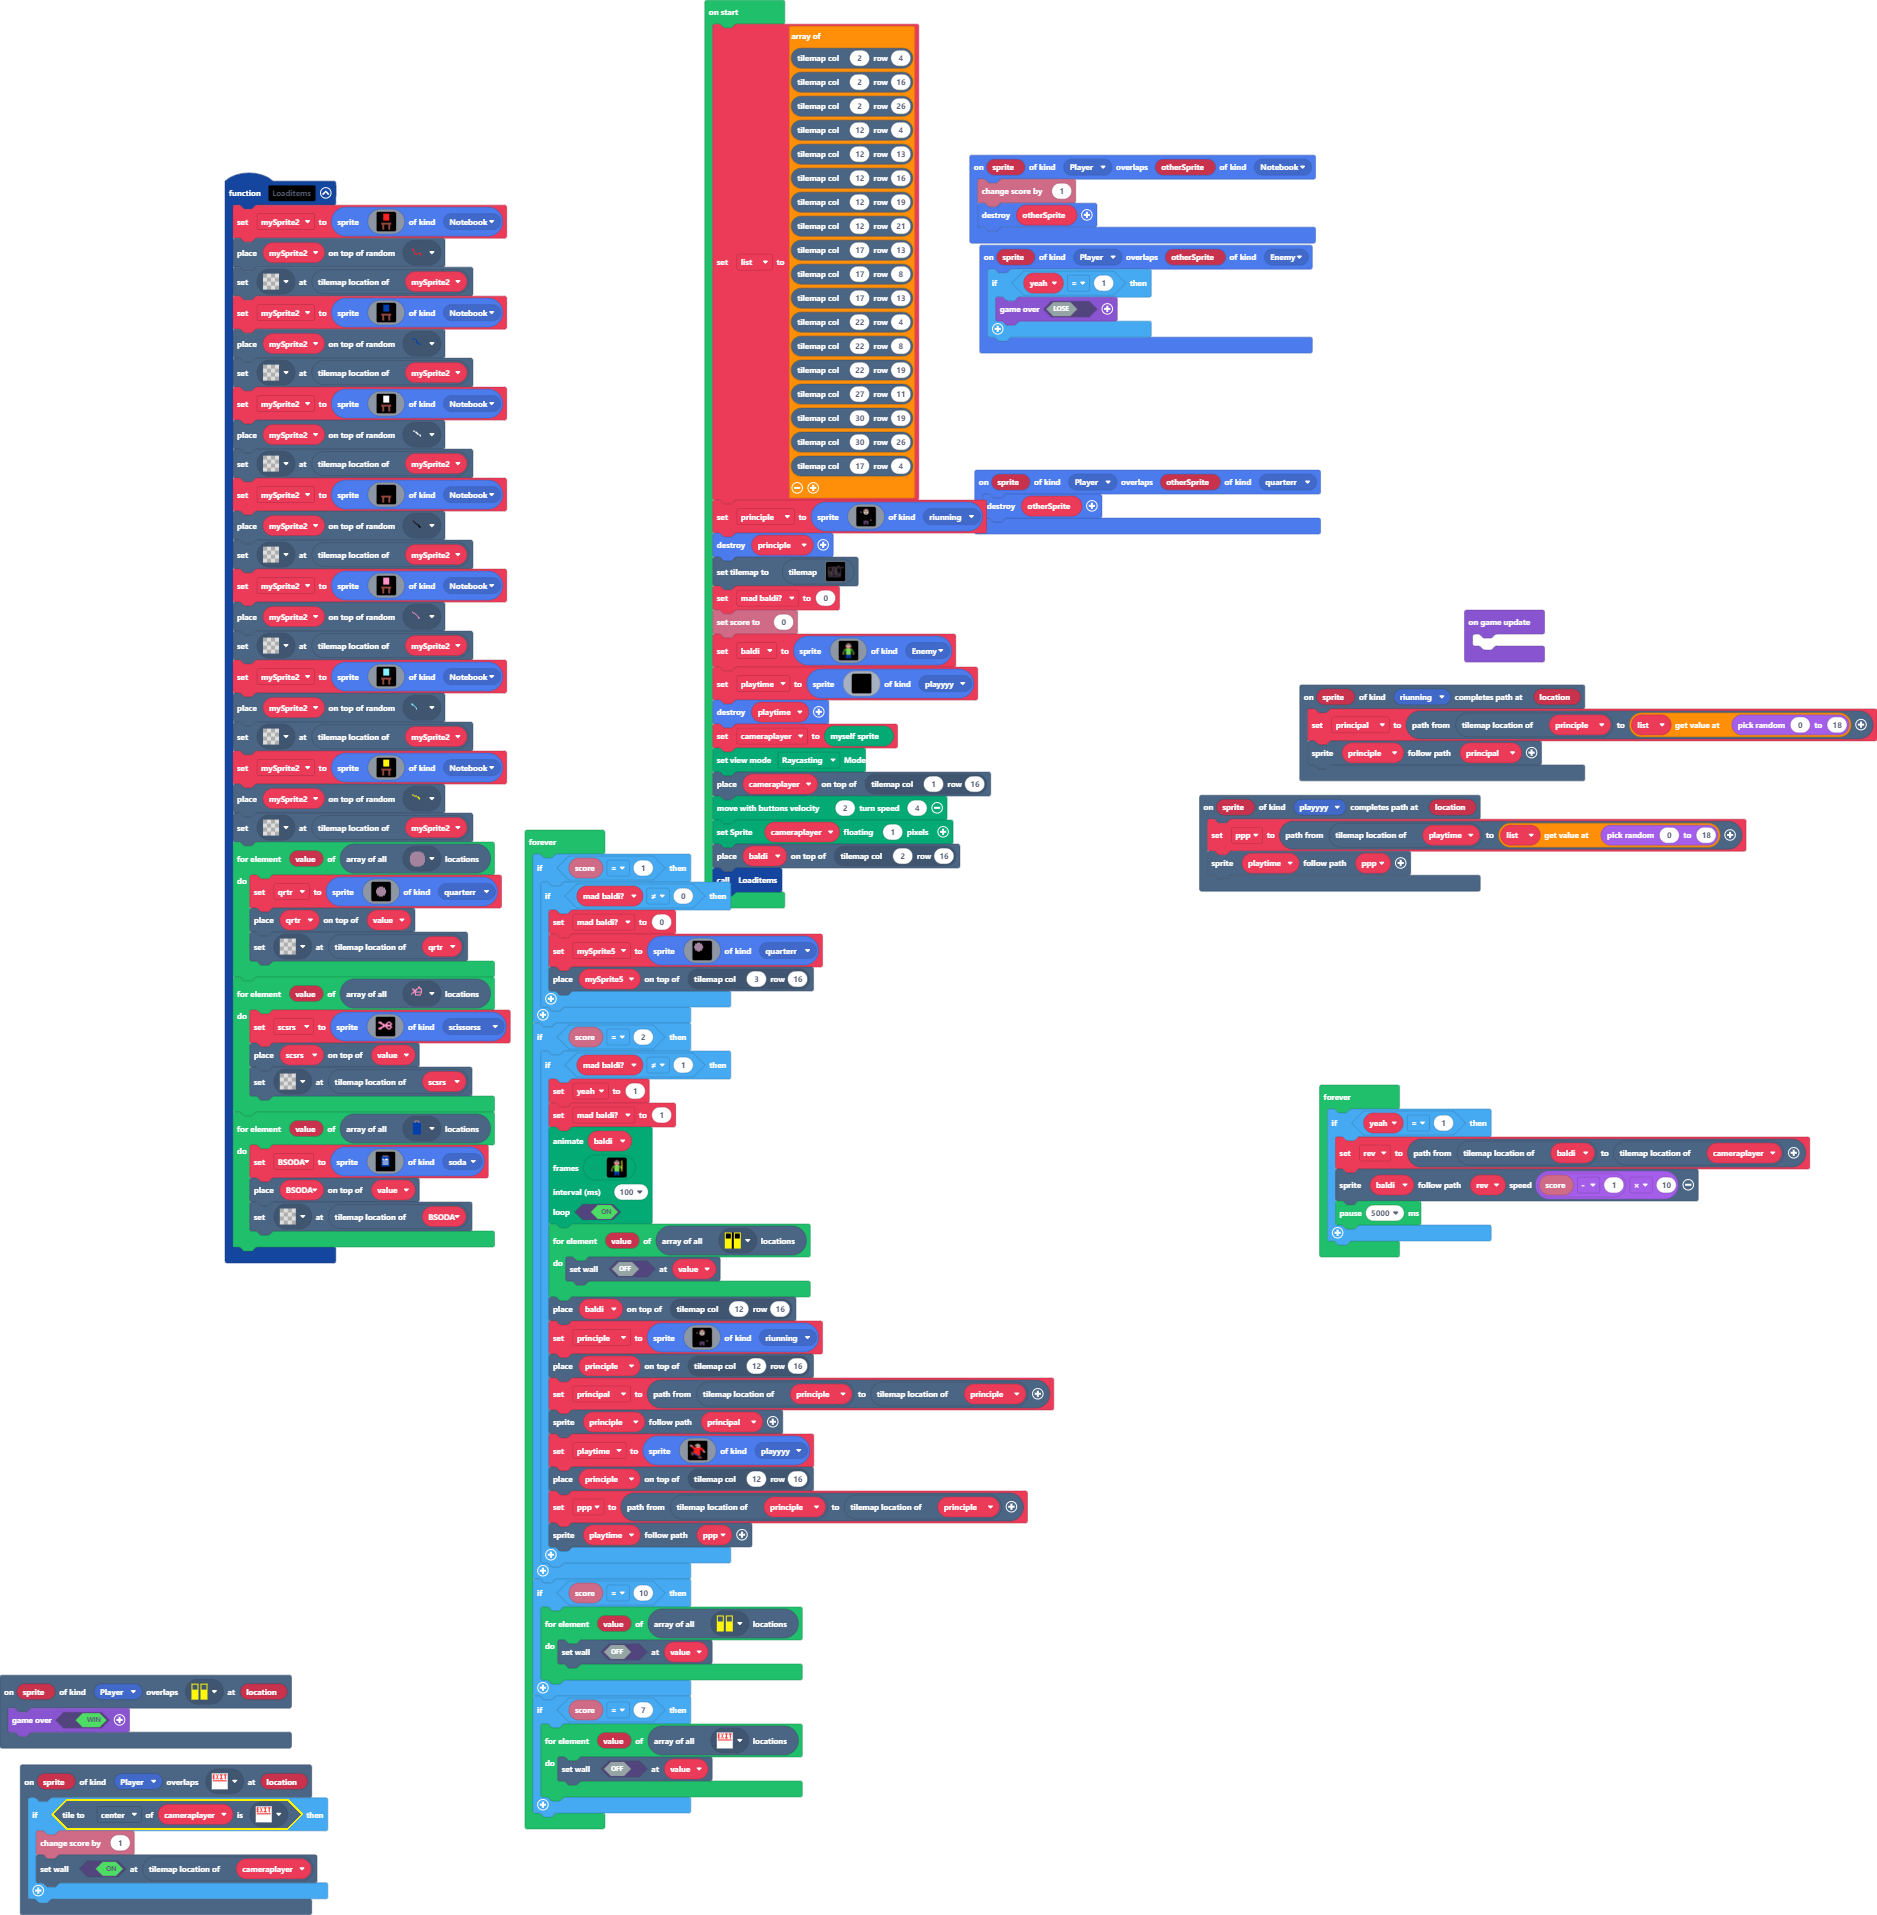
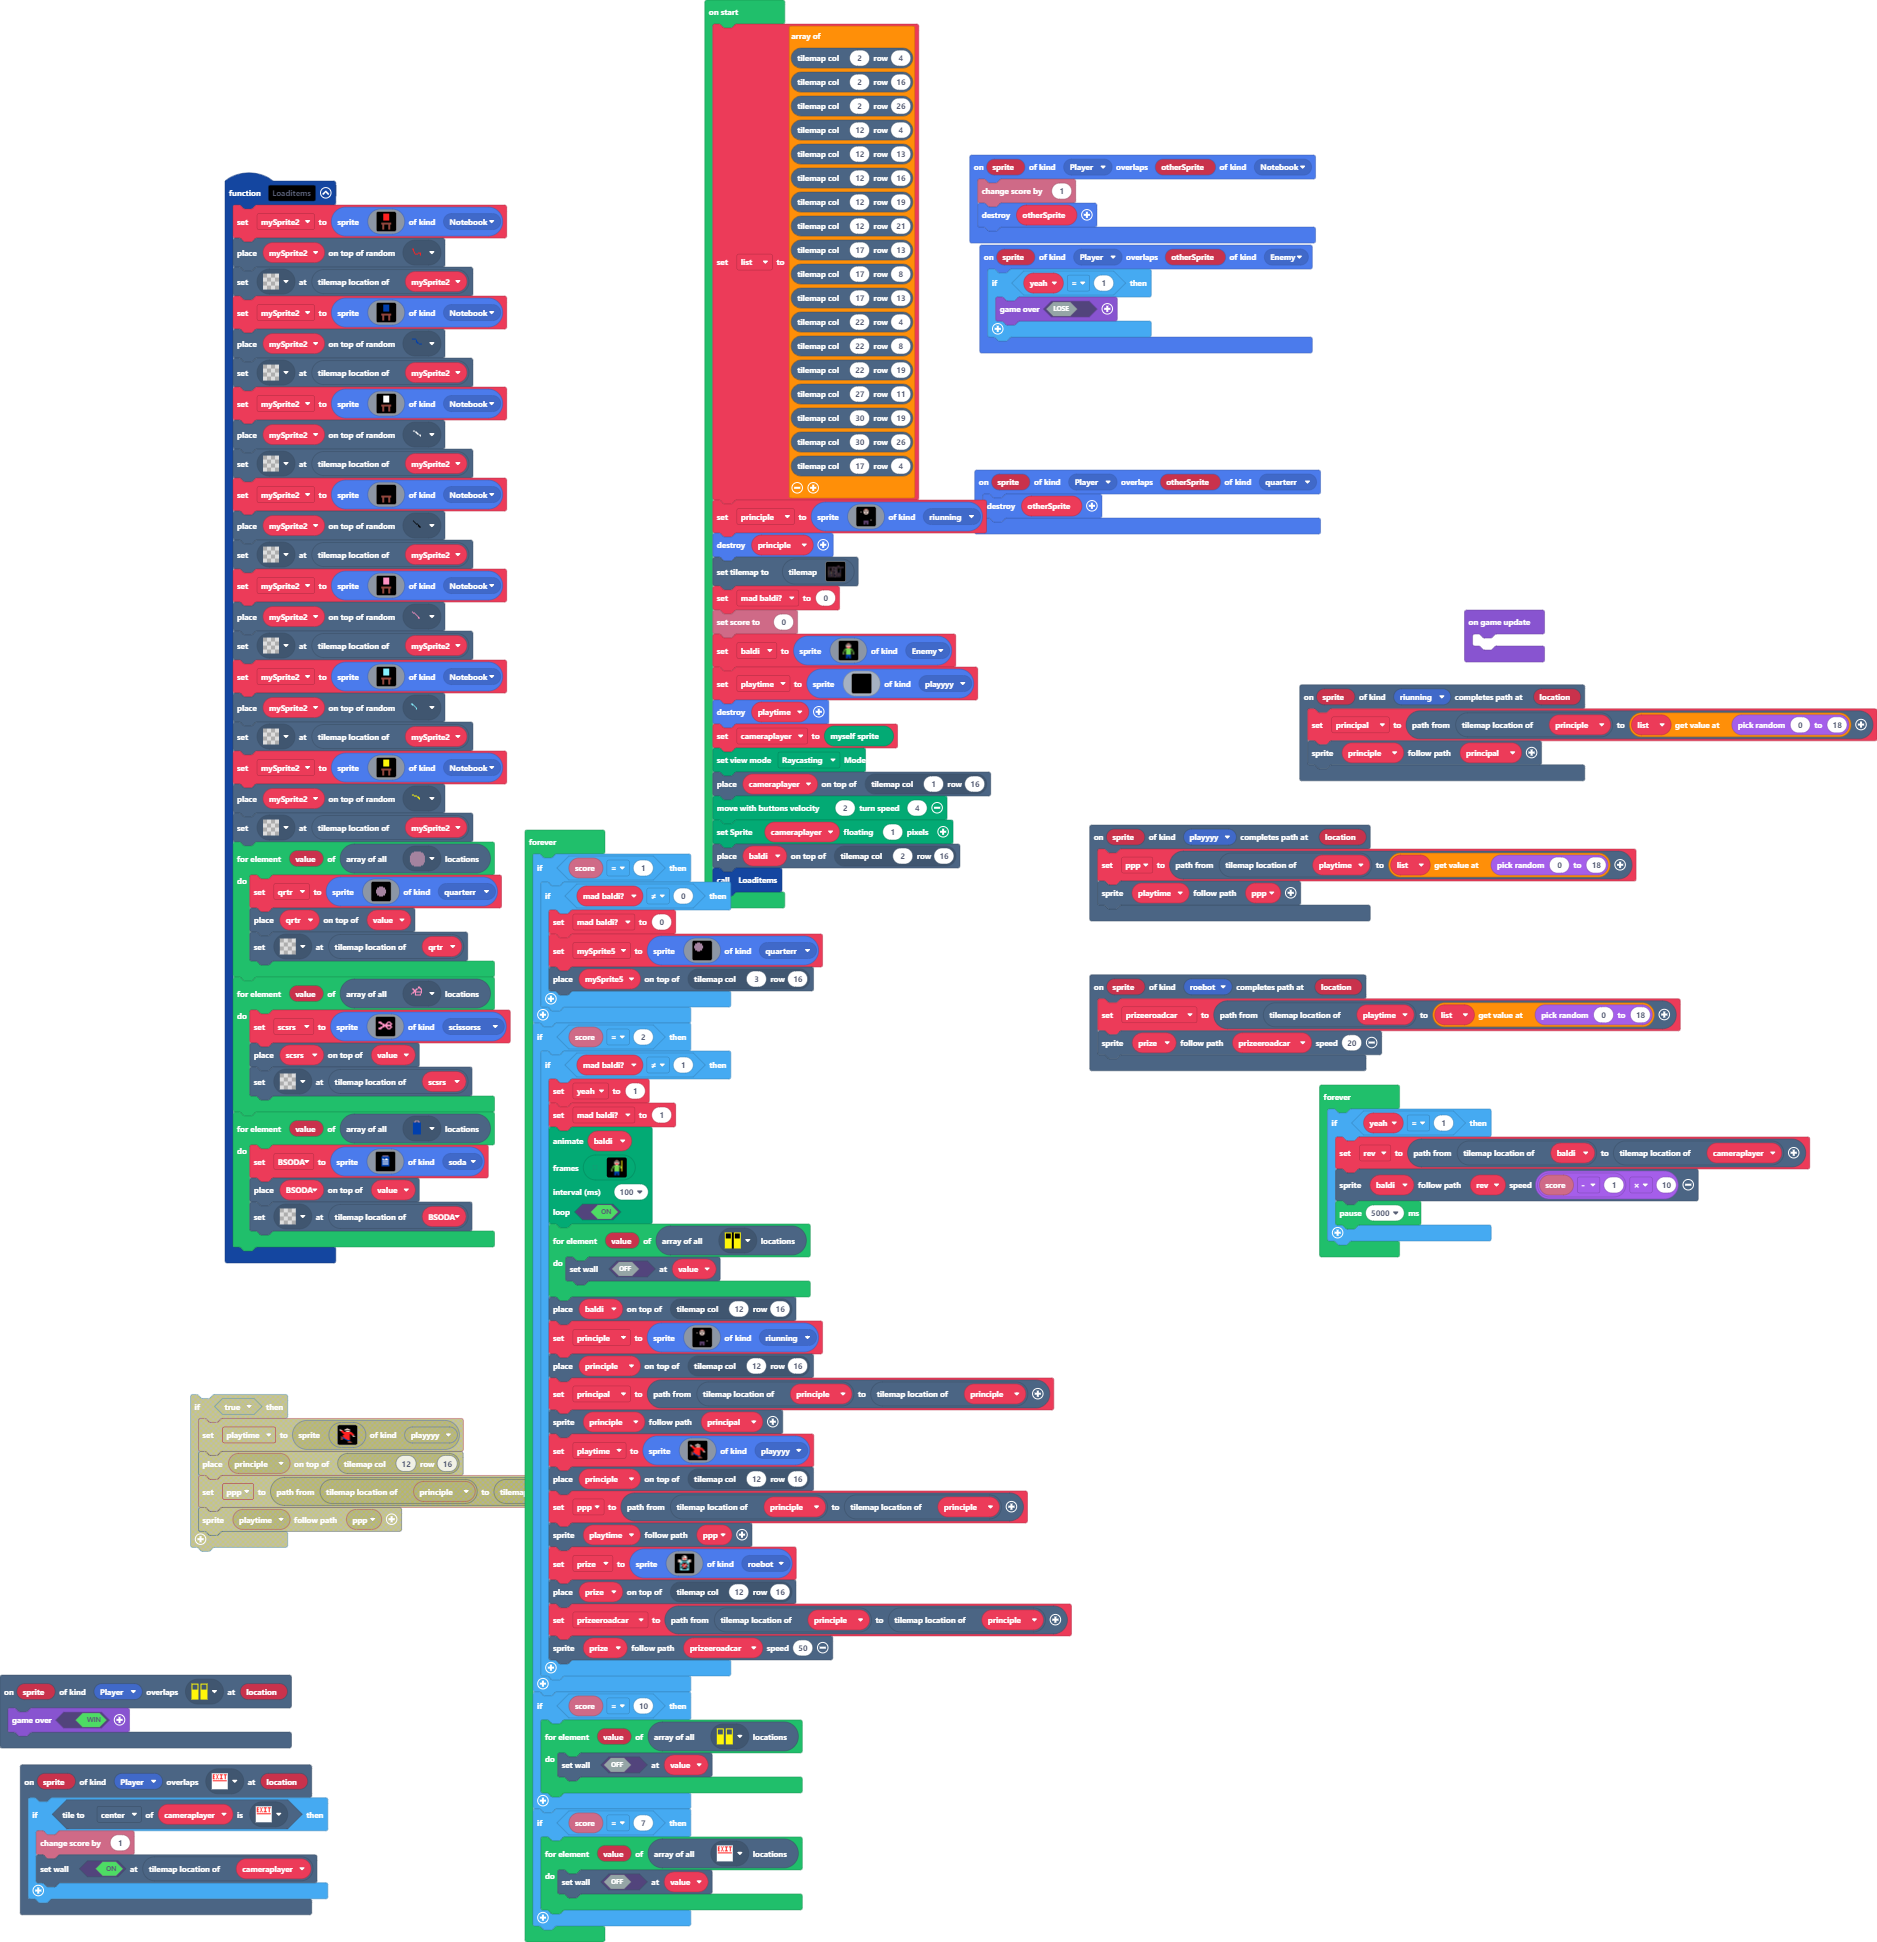
Update main.blocks, main.ts

diff --git a/main.ts b/main.ts
@@ -5,6 +5,7 @@ namespace SpriteKind {
     export const soda = SpriteKind.create()
     export const riunning = SpriteKind.create()
     export const playyyy = SpriteKind.create()
+    export const roebot = SpriteKind.create()
 }
 sprites.onOverlap(SpriteKind.Player, SpriteKind.Notebook, function (sprite, otherSprite) {
     info.changeScoreBy(1)
@@ -238,6 +239,10 @@ function Loaditems () {
         tiles.setTileAt(BSODA.tilemapLocation(), assets.tile`transparency16`)
     }
 }
+scene.onPathCompletion(SpriteKind.roebot, function (sprite, location) {
+    prizeeroadcar = scene.aStar(playtime.tilemapLocation(), list[randint(0, 18)])
+    scene.followPath(prize, prizeeroadcar, 20)
+})
 sprites.onOverlap(SpriteKind.Player, SpriteKind.Enemy, function (sprite, otherSprite) {
     if (yeah == 1) {
         game.over(false)
@@ -246,6 +251,8 @@ sprites.onOverlap(SpriteKind.Player, SpriteKind.Enemy, function (sprite, otherSp
 let rev: tiles.Location[] = []
 let mySprite5: Sprite = null
 let yeah = 0
+let prize: Sprite = null
+let prizeeroadcar: tiles.Location[] = []
 let BSODA: Sprite = null
 let scsrs: Sprite = null
 let qrtr: Sprite = null
@@ -630,6 +637,27 @@ forever(function () {
             tiles.placeOnTile(principle, tiles.getTileLocation(12, 16))
             ppp = scene.aStar(principle.tilemapLocation(), principle.tilemapLocation())
             scene.followPath(playtime, ppp)
+            prize = sprites.create(img`
+                . . . . . . d d d . . . . . . 
+                . . . . . d f d 1 d . . . . . 
+                . . . . . d d d d d . . . . . 
+                . . . . . d 2 2 2 d . . . . . 
+                . d d d . 9 d d d 9 . d d d . 
+                . d d d 9 . . . . . 9 d d d . 
+                . d d d 9 9 9 9 9 9 9 d d d . 
+                . . . 9 9 . . . . . 9 9 . . . 
+                . . . 9 . 9 2 . 2 9 . 9 . . . 
+                . . . 9 . 2 2 2 9 2 . 9 . . . 
+                . . . 9 9 2 2 9 2 2 9 9 . . . 
+                . . . 9 . . 9 2 2 . . 9 . . . 
+                . . . 9 . 9 . 2 . 9 . 9 . . . 
+                f f f 9 9 . . . . . 9 9 f f f 
+                f f f 9 9 9 9 9 9 9 9 9 f f f 
+                f f f . . . . . . . . . f f f 
+                `, SpriteKind.roebot)
+            tiles.placeOnTile(prize, tiles.getTileLocation(12, 16))
+            prizeeroadcar = scene.aStar(principle.tilemapLocation(), principle.tilemapLocation())
+            scene.followPath(prize, prizeeroadcar, 50)
         }
     }
     if (info.score() == 10) {
